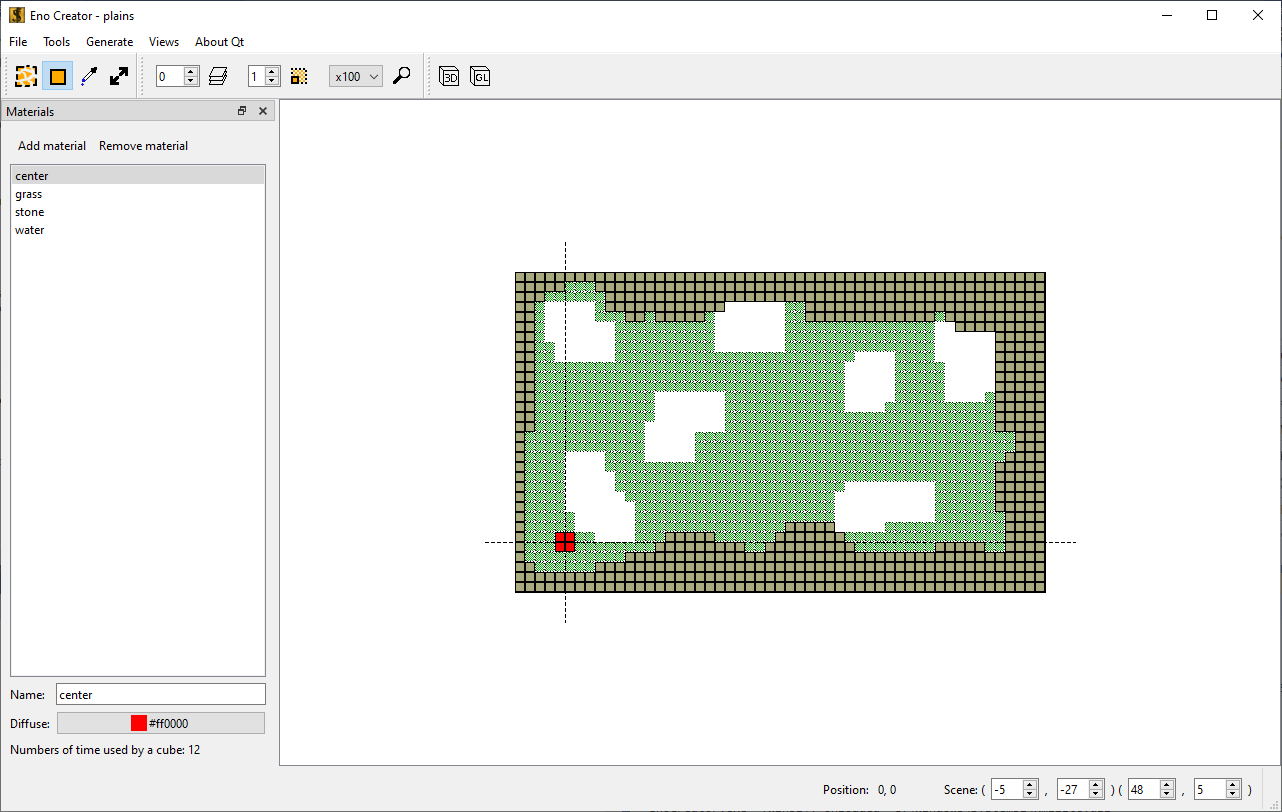
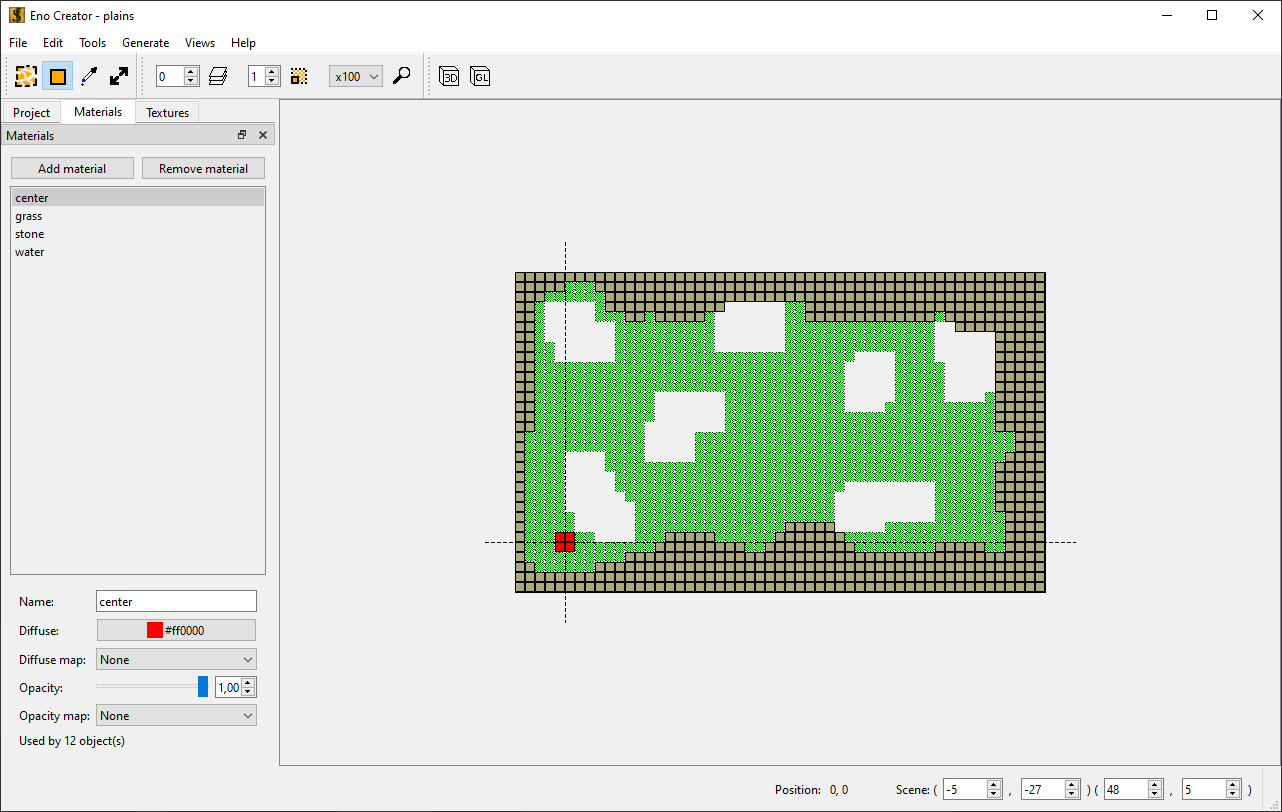
Version 1.1.0

diff --git a/README.md b/README.md
@@ -1,4 +1,4 @@
-# Eno Creator
+# Eno Suite
 
 ## About
 
@@ -8,13 +8,19 @@ And you can export your work into Wavefront file.
 
 Eno features:
 - version
-- material
+- project
+- tags
+- textures
+- materials
 - bounding box
 - object
 
 Wavefront features:
 - vertex / triangle
 - diffuse color
+- diffuse map
+- opacity (dissolve)
+- opacity (dissolve) map
 
 ![Interface](sample/preview.png)
 ![OpenGL preview](sample/preview-opengl.png)
@@ -26,26 +32,27 @@ Even if now it could be used to make old school video games.
 So the interface could look old.
 
 ## Units
-Meter: Eno files, Wavefront files, Qt3D
-Centimeter: QtQuick3D
+
+Meter: Eno files, Wavefront files
+Centimeter: Qt Quick 3D
 
 ## Requirements
 
 - CMake 3.27+
 - C++ 17
-- Qt 6.6
+- Qt Widgets/Quick 6
 
 ## Supported platforms
-Eno: All
-Creator: Windows, Linux, macOS(maybe)
-Viewer: Windows, Linux, macOS(maybe), Android
 
-Note about iOS:
-Without device, we can't update code
+- Eno: All
+- Creator: Windows, Linux, macOS(maybe)
+- Viewer: Windows, Linux, macOS(maybe), Android
+
+Note about iOS: Without device, we can't update code
 
 ## Compilation
 
-- cmake -D "CMAKE_PREFIX_PATH=Path to Qt" -B "build" .
+- cmake -B build
 - cmake --build build
 
-Path to Qt, example for Windows: C:/Qt/6.6.2/msvc2019_64
+If you need to specify Qt location, add this to the first call of CMake: -D "CMAKE_PREFIX_PATH=Path to Qt"
